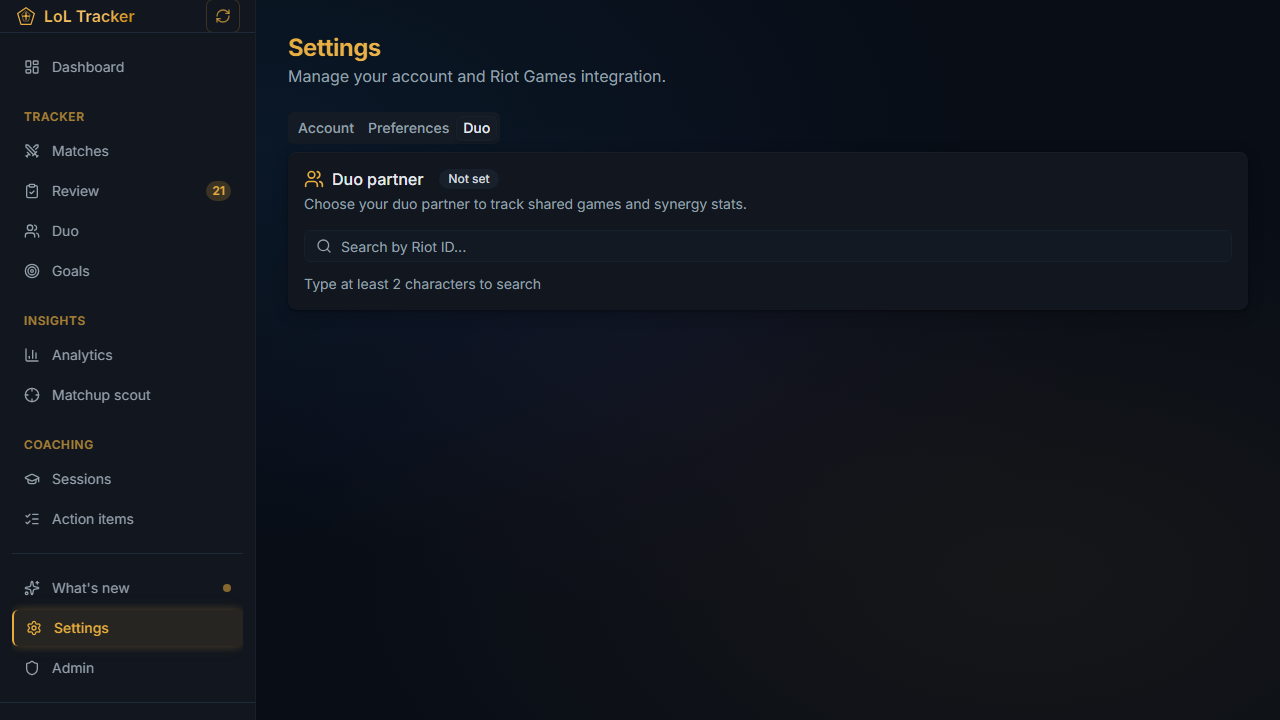
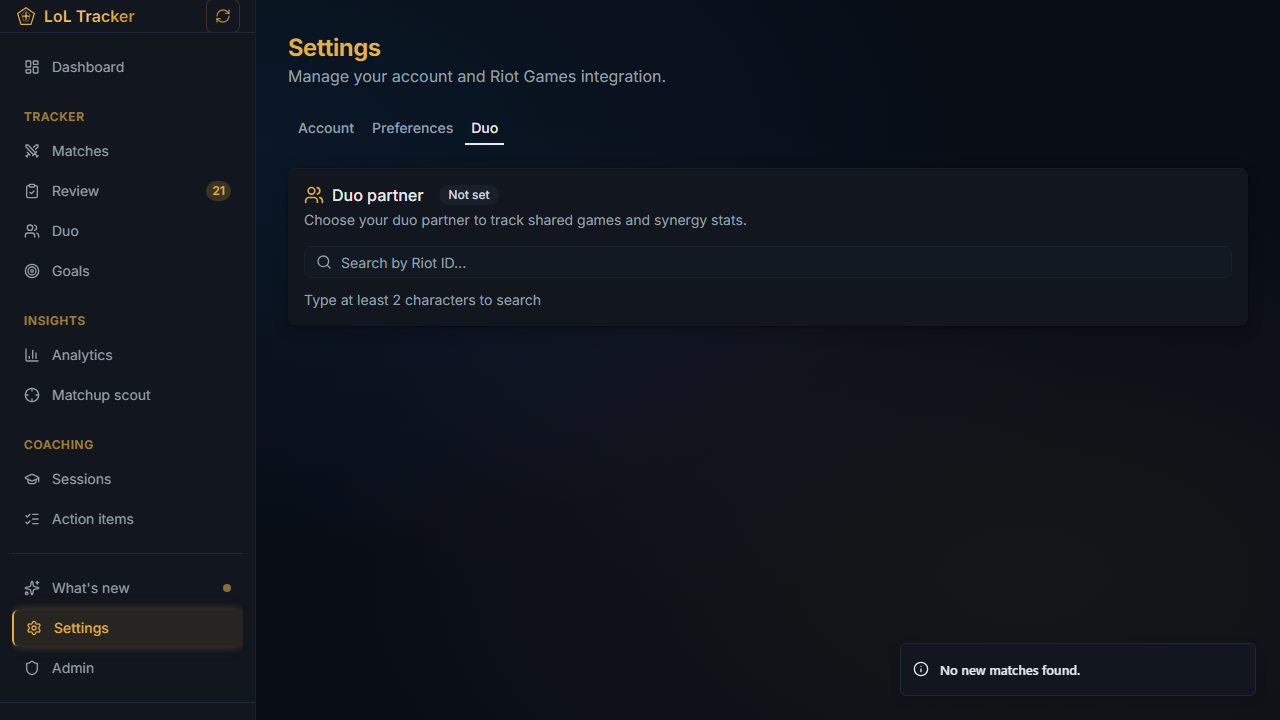
fix: move Language & Region to Preferences tab, use line-variant tabs
- Move Language & Region card from Account tab to Preferences tab
  (Account = Riot account + roles, Preferences = language/region + cadence)
- Switch TabsList to line variant for clearer tab affordance
- Add mt-4 spacing to TabsContent panels
- Update E2E tests to navigate Preferences tab for language/locale tests
- Re-capture and re-annotate settings screenshots
- Update changelog descriptions and image references

Changed region(s): [[0.2188, 0.2444, 0.5938, 0.4278], [0.7188, 0.9167, 0.8438, 0.9472], [0.2812, 0.1528, 0.4062, 0.1833]]

diff --git a/src/app/(app)/settings/page.tsx b/src/app/(app)/settings/page.tsx
@@ -314,14 +314,14 @@ export default function SettingsPage() {
       </div>
 
       <Tabs defaultValue="account">
-        <TabsList>
+        <TabsList variant="line">
           <TabsTrigger value="account">{t("tabs.account")}</TabsTrigger>
           <TabsTrigger value="preferences">{t("tabs.preferences")}</TabsTrigger>
           <TabsTrigger value="duo">{t("tabs.duo")}</TabsTrigger>
         </TabsList>
 
         {/* ─── Account Tab ──────────────────────────────────────────── */}
-        <TabsContent value="account">
+        <TabsContent value="account" className="mt-4">
           <div className="space-y-6">
             {/* Riot Account Card */}
             <Card className="surface-glow">
@@ -530,7 +530,12 @@ export default function SettingsPage() {
                 )}
               </CardContent>
             </Card>
+          </div>
+        </TabsContent>
 
+        {/* ─── Preferences Tab ──────────────────────────────────────── */}
+        <TabsContent value="preferences" className="mt-4">
+          <div className="space-y-6">
             {/* Language & Region Card */}
             <Card className="surface-glow">
               <CardHeader>
@@ -585,12 +590,7 @@ export default function SettingsPage() {
                 </p>
               </CardContent>
             </Card>
-          </div>
-        </TabsContent>
 
-        {/* ─── Preferences Tab ──────────────────────────────────────── */}
-        <TabsContent value="preferences">
-          <div className="space-y-6">
             {/* Coaching Cadence Card */}
             <Card className="surface-glow">
               <CardHeader>
@@ -630,7 +630,7 @@ export default function SettingsPage() {
         </TabsContent>
 
         {/* ─── Duo Tab ──────────────────────────────────────────────── */}
-        <TabsContent value="duo">
+        <TabsContent value="duo" className="mt-4">
           <div className="space-y-6">
             {isLinked ? (
               <Card className="surface-glow">

diff --git a/tests/e2e/settings-flow.spec.ts b/tests/e2e/settings-flow.spec.ts
@@ -23,10 +23,13 @@ test.describe("Settings flow", () => {
     // Riot account card should show "Linked" since DemoPlayer has a Riot account
     await expect(page.getByText("Linked").first()).toBeVisible();
 
+    // Navigate to Preferences tab — Language & Region is now in Preferences
+    await page.getByRole("tab", { name: "Preferences" }).click();
+
     // Language & Region card should be visible
     await expect(page.getByText("Language & Region")).toBeVisible();
 
-    // Navigate to Duo tab — settings now uses tabs
+    // Navigate to Duo tab
     await page.getByRole("tab", { name: "Duo" }).click();
 
     // Duo Partner card should be visible (DemoPlayer is linked)
@@ -35,6 +38,9 @@ test.describe("Settings flow", () => {
 
   test("change language to Spanish and back to English", async ({ page }) => {
     await page.goto("/settings");
+
+    // Navigate to Preferences tab — Language & Region is now in Preferences
+    await page.getByRole("tab", { name: "Preferences" }).click();
 
     // ----- Switch to Spanish -----
     // Use role-based selector instead of #id to avoid strict mode violations
@@ -55,6 +61,9 @@ test.describe("Settings flow", () => {
     await expect(page.getByText("Ajustes").first()).toBeVisible({
       timeout: 10_000,
     });
+
+    // Navigate to Preferences tab (in Spanish: "Preferencias")
+    await page.getByRole("tab", { name: "Preferencias" }).click();
 
     // ----- Switch back to English -----
     // In Spanish, the label is "Idioma de la interfaz"
@@ -79,6 +88,9 @@ test.describe("Settings flow", () => {
 
   test("change locale and verify date format preview", async ({ page }) => {
     await page.goto("/settings");
+
+    // Navigate to Preferences tab — locale selector is now in Preferences
+    await page.getByRole("tab", { name: "Preferences" }).click();
 
     // Click the locale select trigger — use role-based selector to avoid
     // strict mode violations from SSR hydration duplicating DOM nodes on CI
